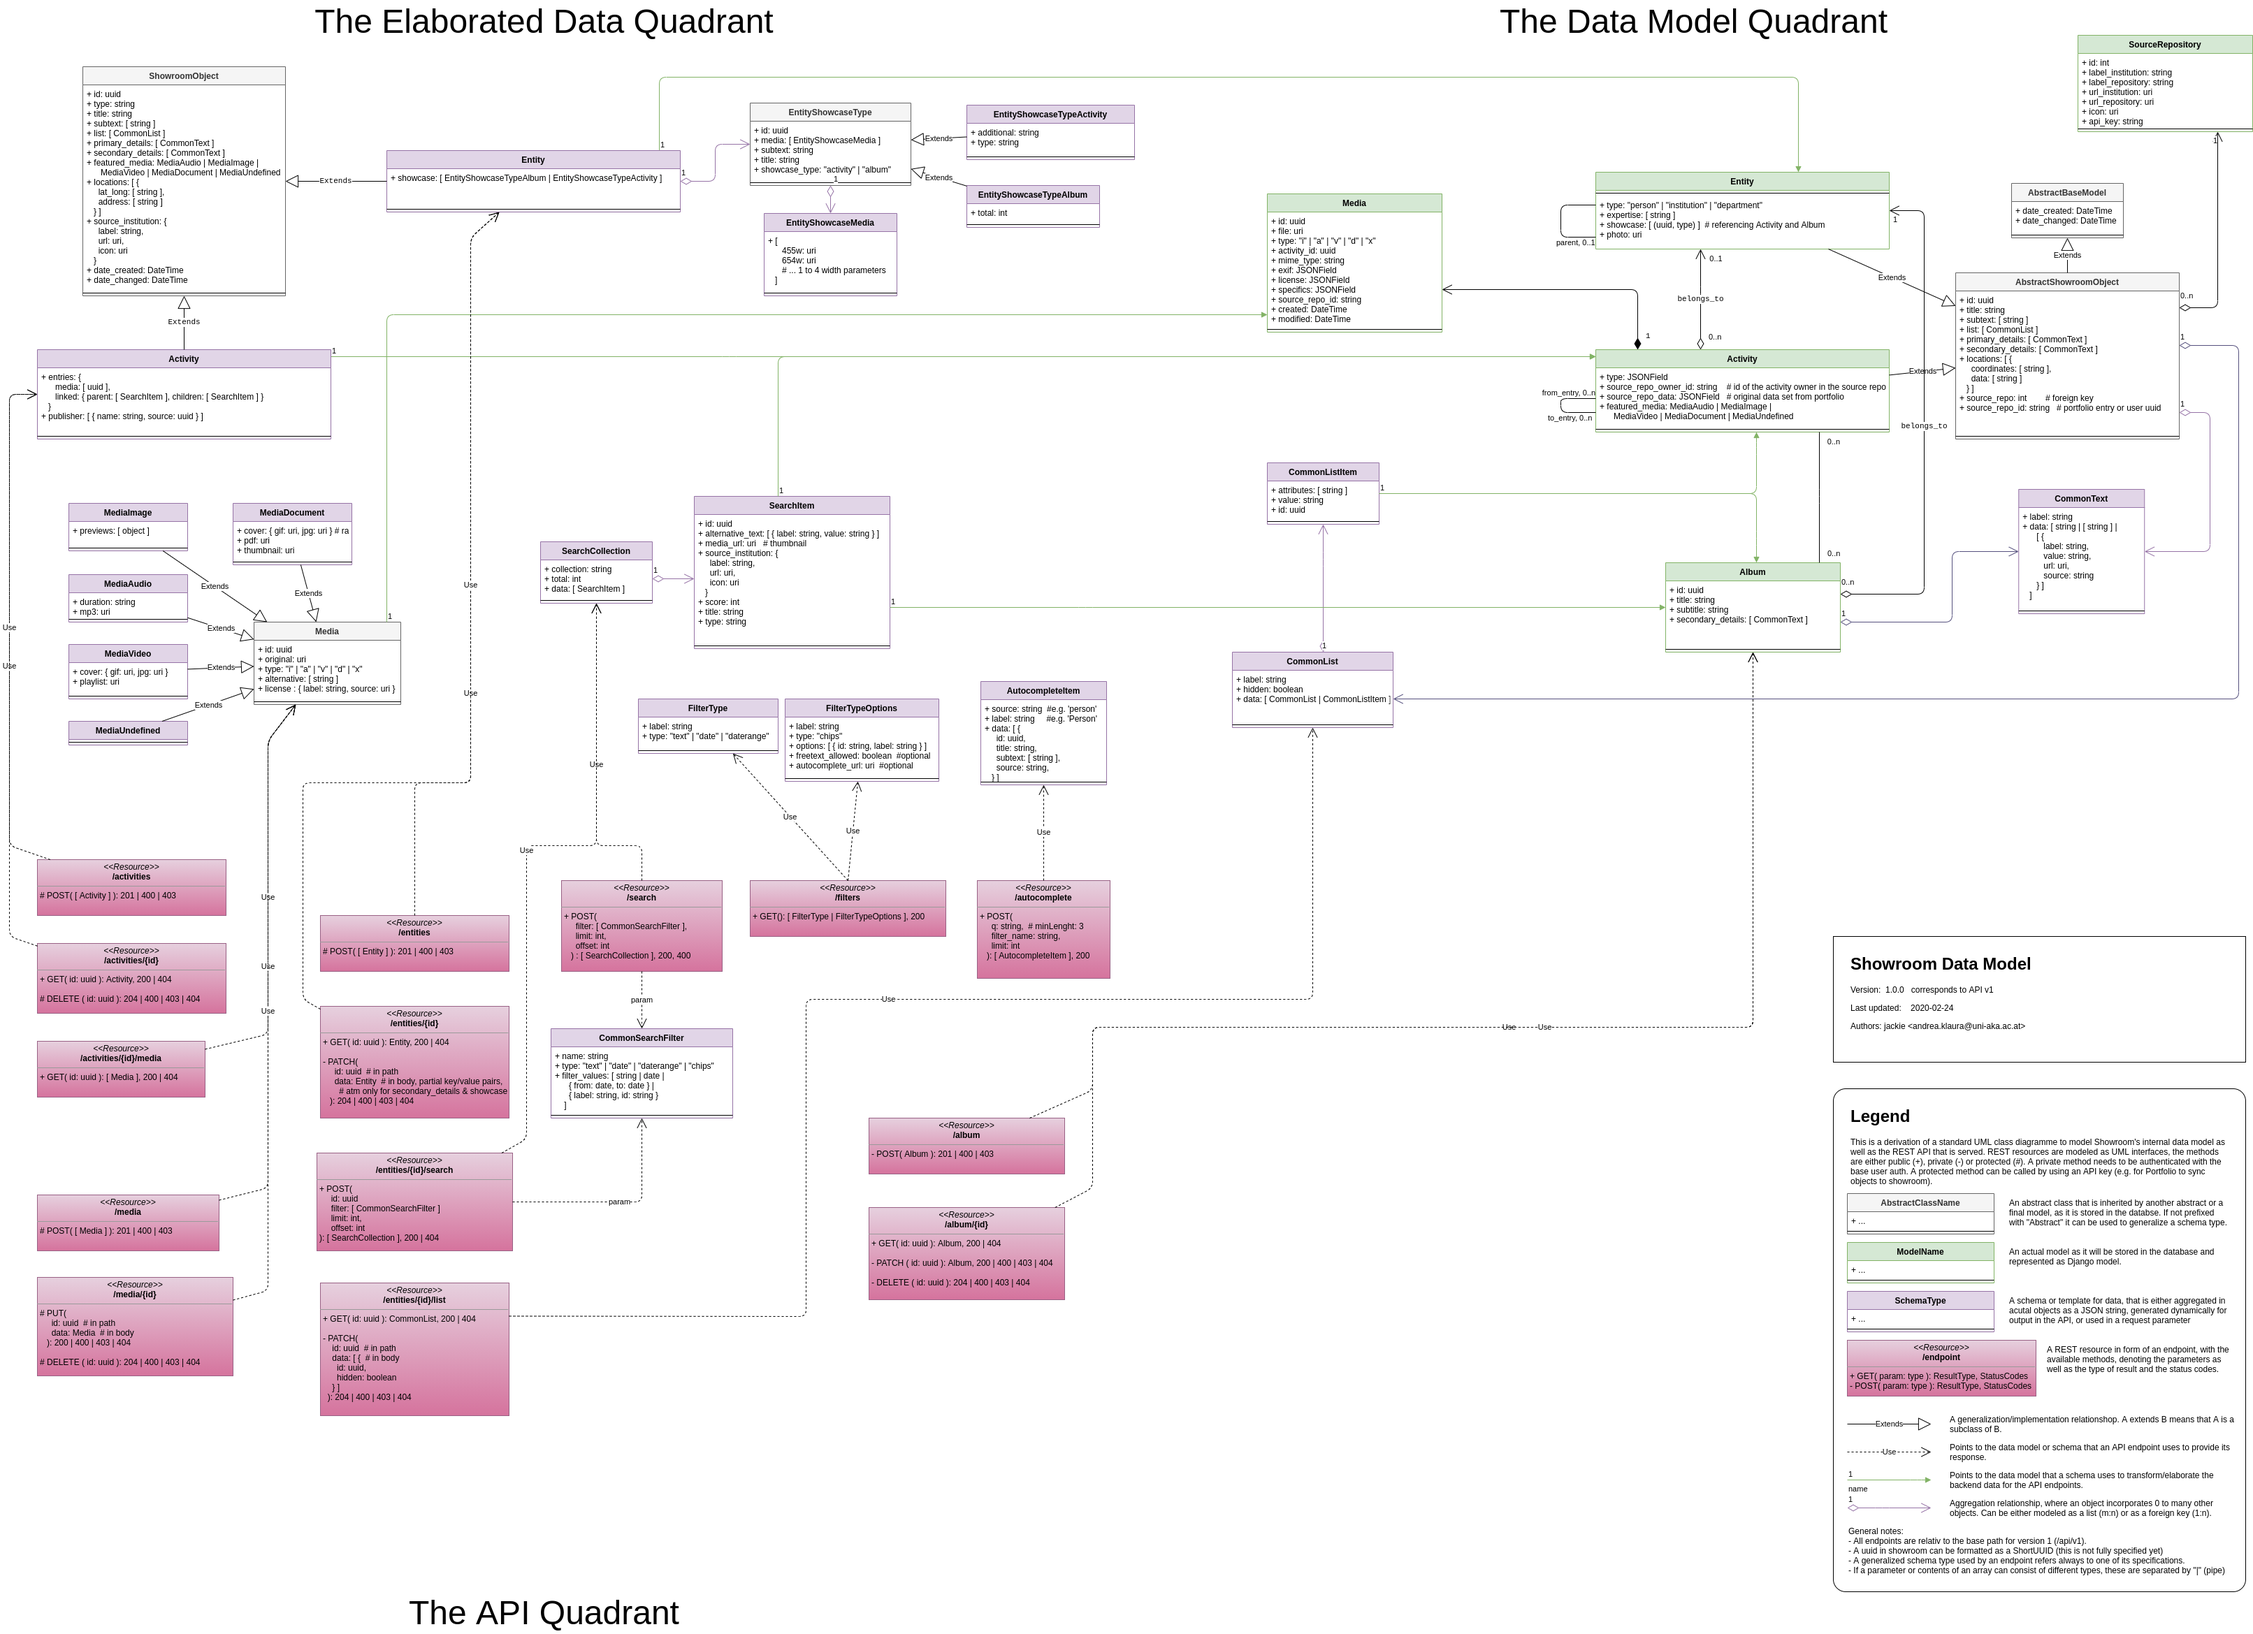
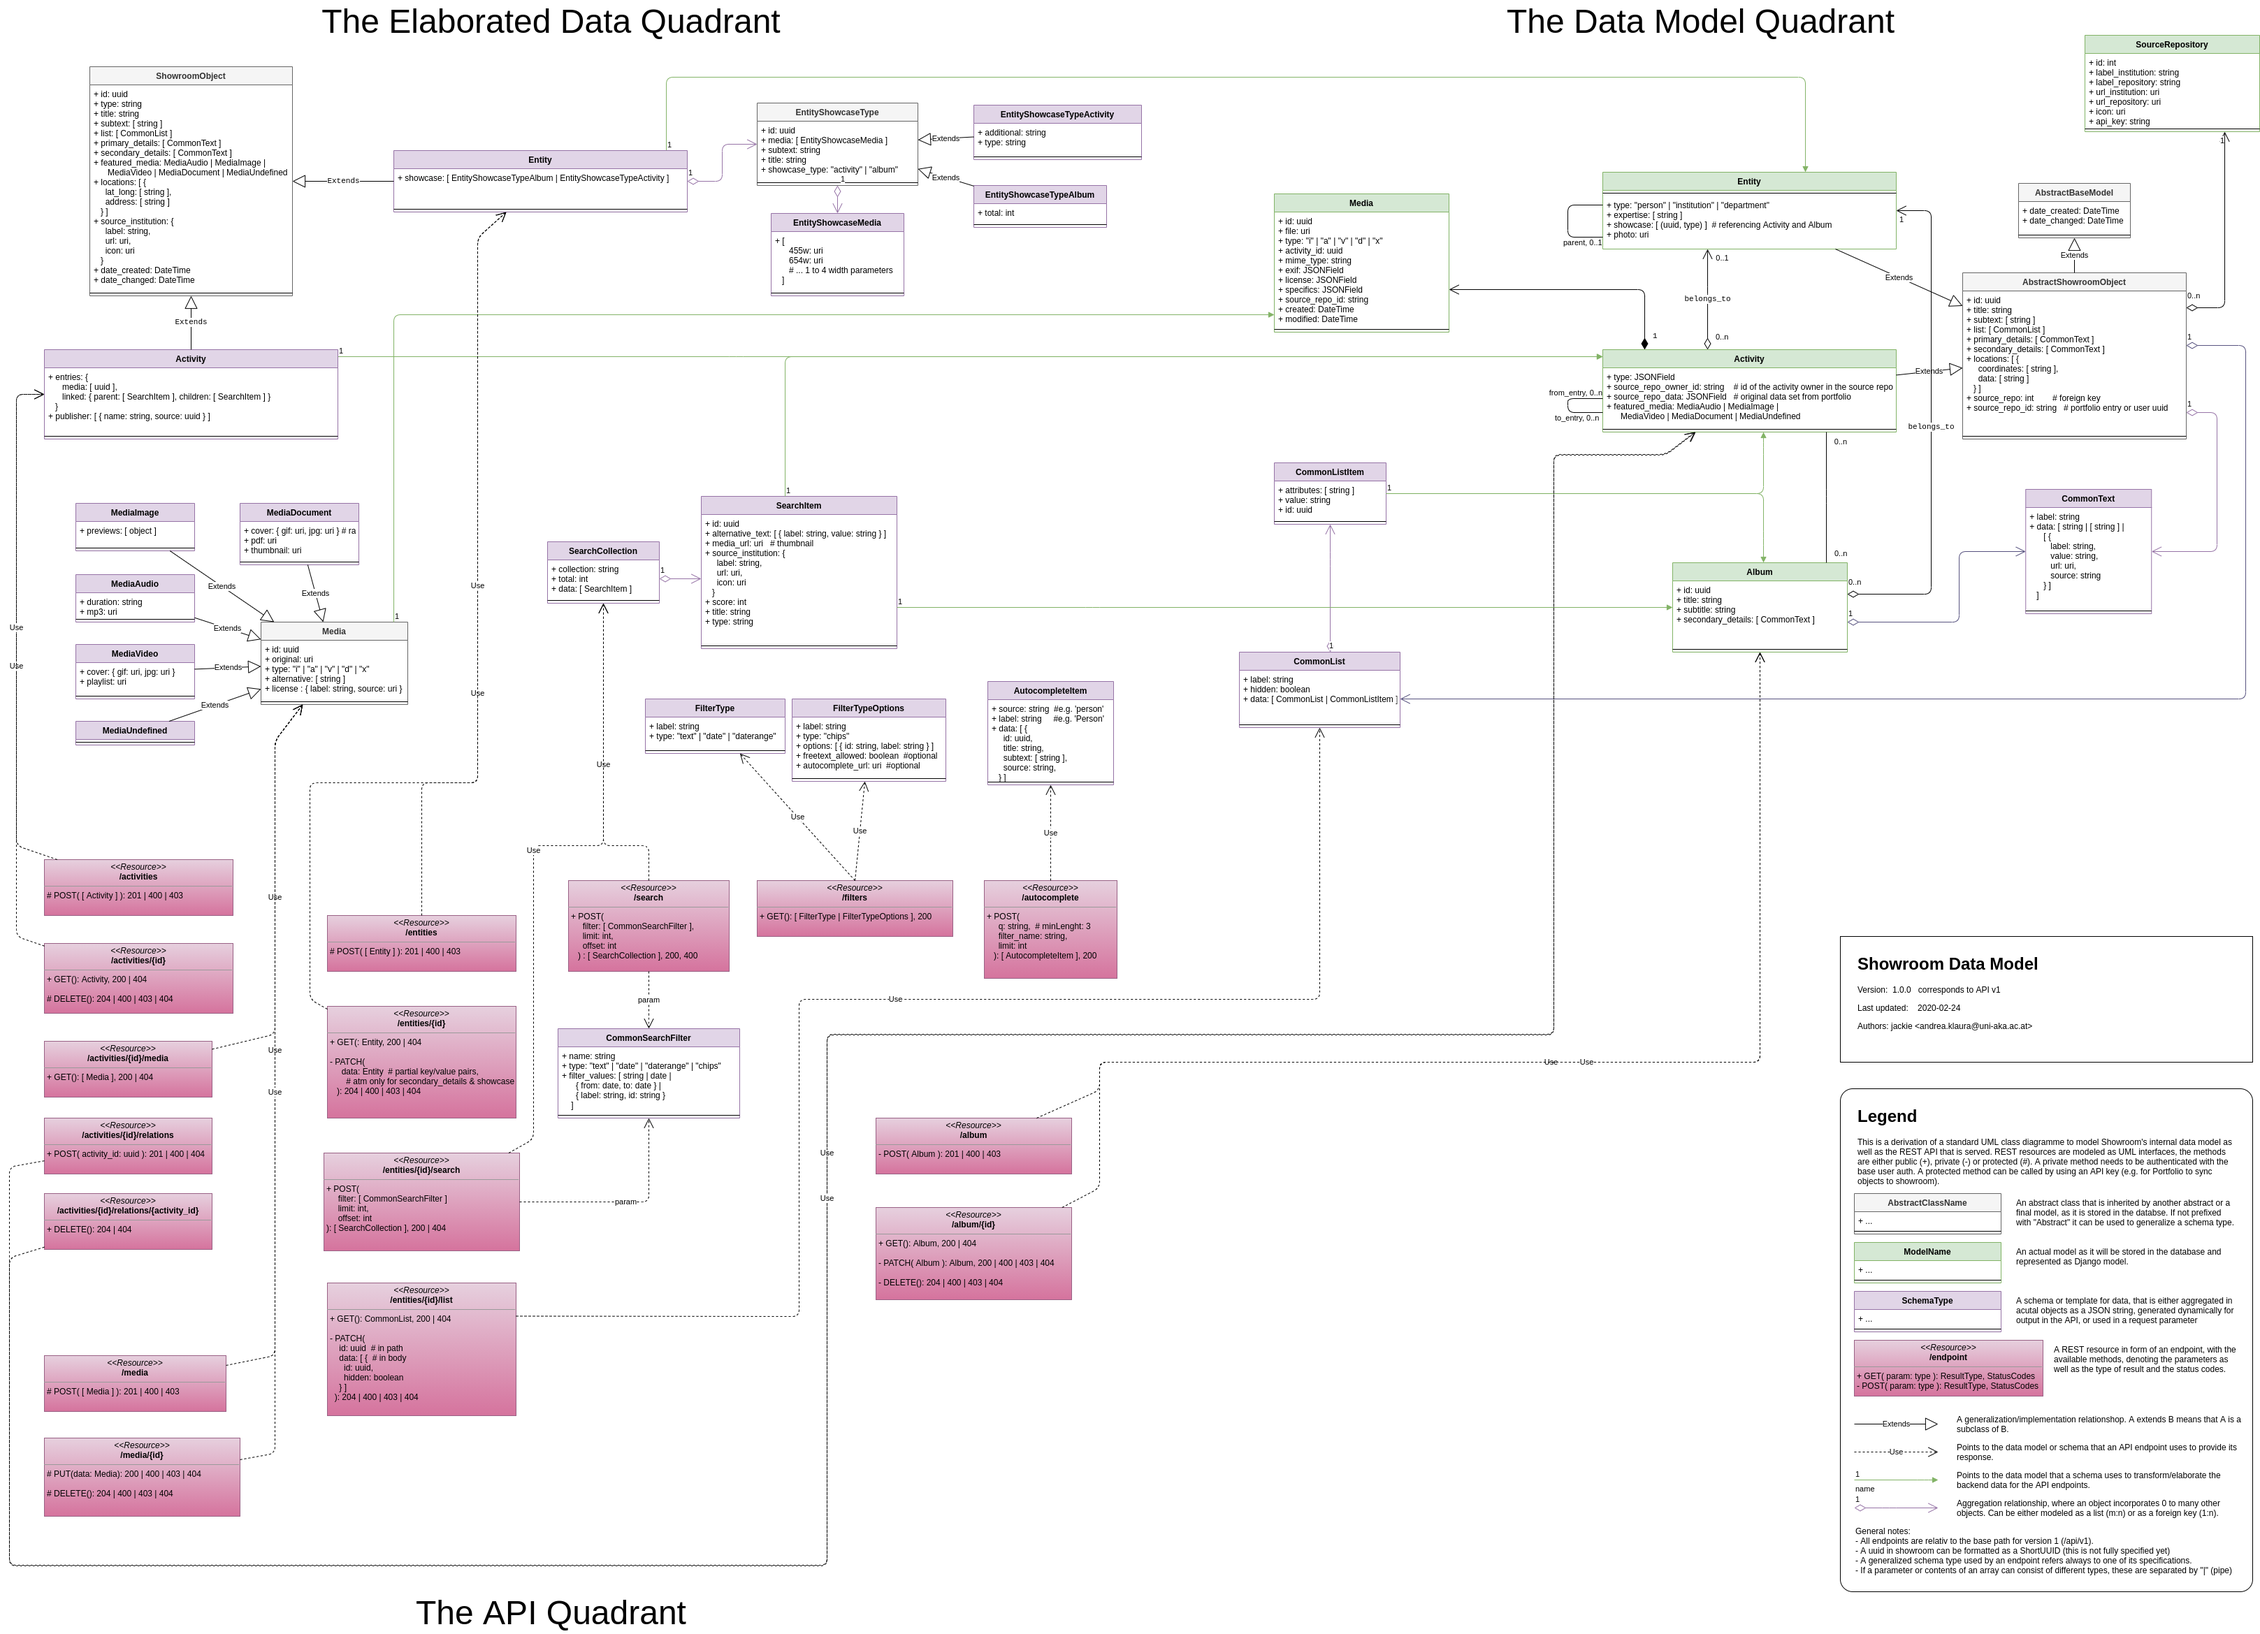
~ implement relations actions for ActivityViewSet

diff --git a/src/api/views.py b/src/api/views.py
@@ -189,6 +189,55 @@ class ActivityViewSet(
     def media(self, request, *args, **kwargs):
         return Response({'detail': 'Not yet implemented'}, status=400)
 
+    @extend_schema(
+        tags=['repo'],
+        request=view_spec.ActivityRelationSerializer,
+        responses={
+            201: view_spec.Responses.RelationAdded,
+            400: view_spec.Responses.Error400,
+            404: view_spec.Responses.Error404,
+        },
+    )
+    @action(detail=True, methods=['post'])
+    def relations(self, request, *args, **kwargs):
+        try:
+            activity = Activity.objects.get(pk=kwargs['pk'])
+        except Activity.DoesNotExist:
+            return Response({'detail': 'Not found.'}, status=status.HTTP_404_NOT_FOUND)
+        if not (activity_id := request.data.get('activity_id')):
+            return Response(
+                {'activity_id': ['This field is required']},
+                status=status.HTTP_400_BAD_REQUEST,
+            )
+        try:
+            related = Activity.objects.get(id=activity_id)
+        except Activity.DoesNotExist:
+            return Response({'detail': 'Not found.'}, status=status.HTTP_404_NOT_FOUND)
+        activity.relations_to.add(related)
+        return Response(status=status.HTTP_201_CREATED)
+
+    @extend_schema(
+        tags=['repo'],
+        responses={
+            204: None,
+            404: view_spec.Responses.Error404,
+        },
+    )
+    @action(
+        detail=True, methods=['delete'], url_path='relations/(?P<related_id>[^/.]+)'
+    )
+    def relations_delete(self, request, *args, **kwargs):
+        try:
+            activity = Activity.objects.get(pk=kwargs['pk'])
+        except Activity.DoesNotExist:
+            return Response({'detail': 'Not found.'}, status=status.HTTP_404_NOT_FOUND)
+        try:
+            related = activity.relations_to.get(id=kwargs['related_id'])
+        except Activity.DoesNotExist:
+            return Response({'detail': 'Not found.'}, status=status.HTTP_404_NOT_FOUND)
+        activity.relations_to.remove(related)
+        return Response(status=status.HTTP_204_NO_CONTENT)
+
 
 @extend_schema_view(
     create=extend_schema(

diff --git a/src/api/view_spec.py b/src/api/view_spec.py
@@ -146,6 +146,10 @@ class AutocompleteItemSerializer(serializers.Serializer):
     data = AutocompleteItemDataSerializer(many=True)
 
 
+class ActivityRelationSerializer(serializers.Serializer):
+    activity_id = serializers.CharField()
+
+
 class Responses:
     Error400 = error(
         status_code=400,
@@ -183,4 +187,9 @@ class Responses:
         description='',
         response=serializers.ListSerializer(child=AutocompleteItemSerializer()),
         # TODO: add description and examples
+    )
+
+    RelationAdded = OpenApiResponse(
+        description='The relationship was successfully added.',
+        response=None,
     )
